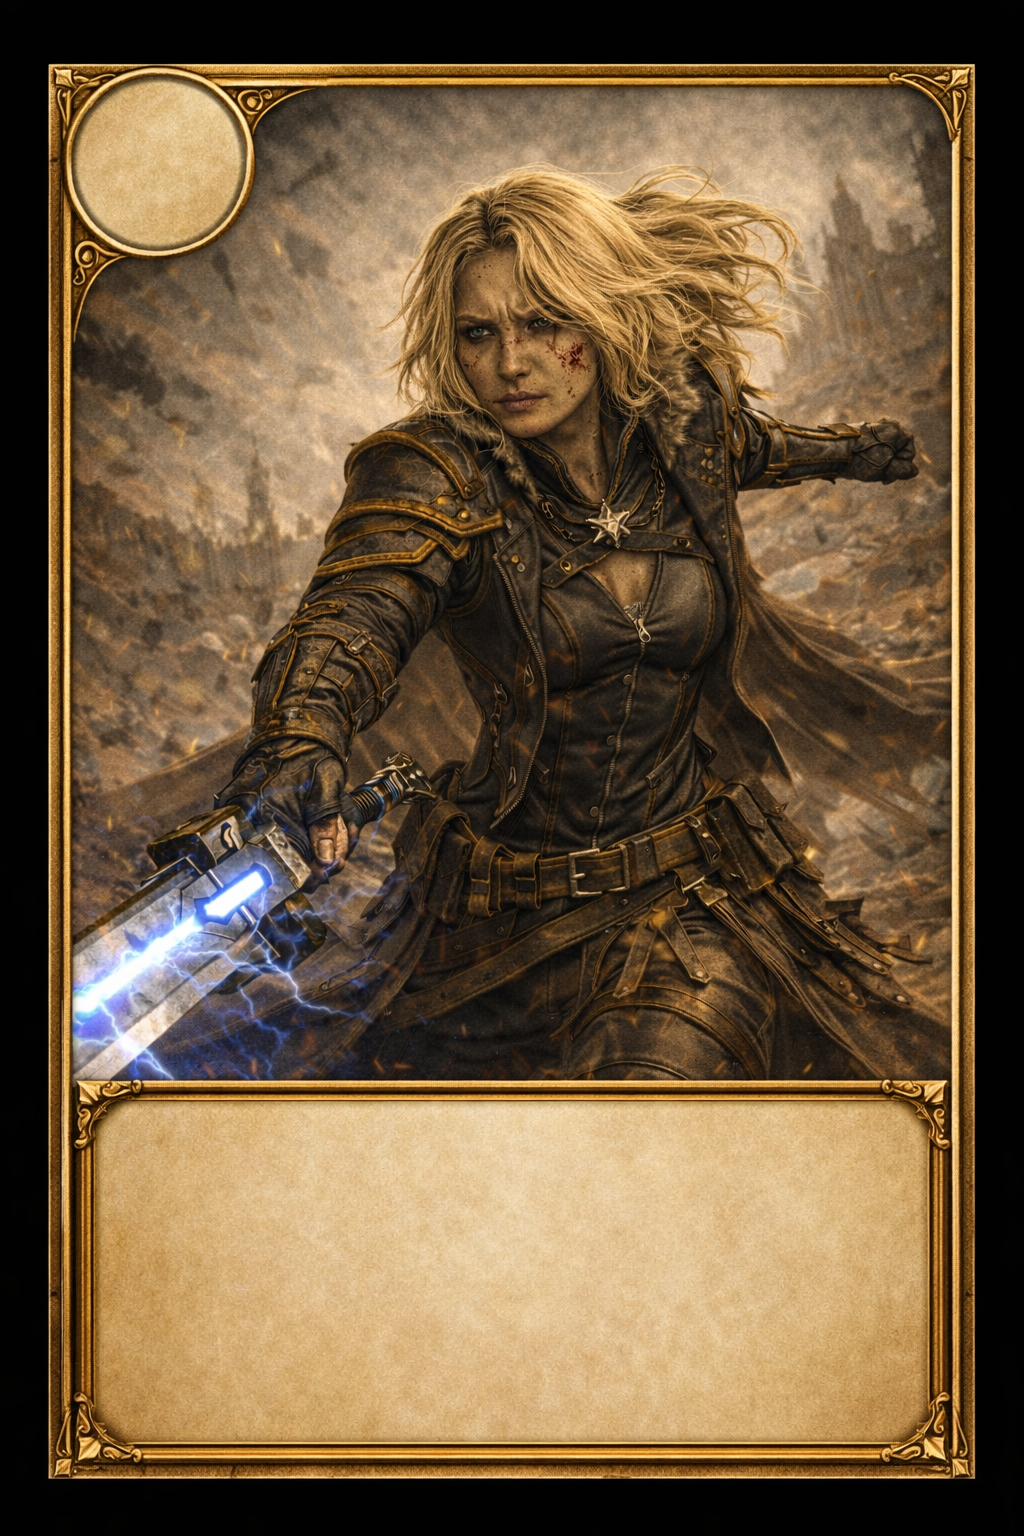
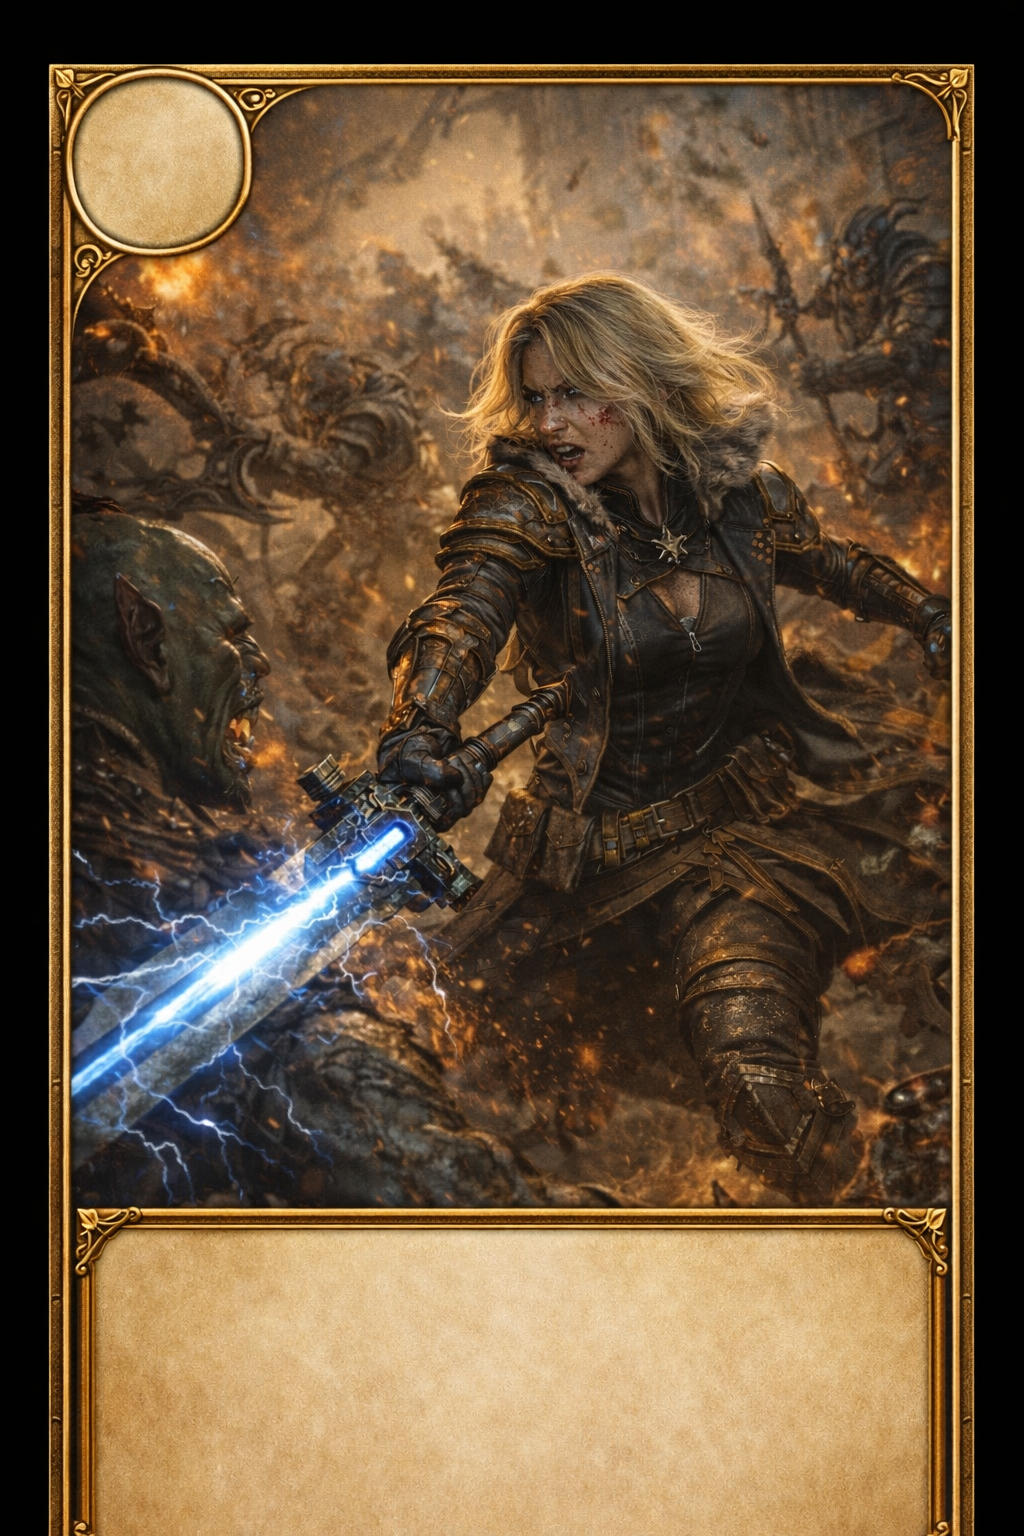
Refina layout del modo batalla de cartas

diff --git a/style.css b/style.css
@@ -1154,52 +1154,35 @@ img{ max-width:100%; height:auto; }
 }
 
 .arcade-battle-board{
-  margin-top: 6px;
+  margin-top: 0;
   flex: 1 1 auto;
   display: flex;
   flex-direction: column;
-  gap: 8px;
+  gap: 10px;
   min-height: 0;
-  overflow: visible;
-}
-
-.arcade-battle-top{
-  display: grid;
-  grid-template-columns: minmax(260px, 320px) minmax(0, 1fr);
-  gap: 12px;
-  align-items: start;
-  min-height: 0;
-  flex: 1 1 auto;
+  justify-content: center;
 }
 
 .arcade-battle-player-panel{
+  display: grid;
+  grid-template-columns: minmax(180px, 1fr) minmax(180px, 1fr) auto auto;
+  gap: 10px;
+  align-items: center;
+  border: none;
+  background: rgba(0,0,0,.28);
   border-radius: 14px;
-  border: 1px solid rgba(255,255,255,.14);
-  background: rgba(5,10,21,.38);
-  padding: 12px;
-}
-
-.arcade-battle-panel-title{
-  font-weight: 900;
-  margin-bottom: 8px;
-}
-
-.arcade-battle-stat{
-  display: flex;
-  justify-content: space-between;
-  gap: 8px;
-  font-size: 13px;
-  font-weight: 700;
+  padding: 10px 12px;
+  backdrop-filter: blur(4px);
 }
 
 .arcade-battle-bar{
   width: 100%;
-  height: 12px;
+  height: 10px;
   border-radius: 999px;
   overflow: hidden;
   background: rgba(255,255,255,.08);
   border: 1px solid rgba(255,255,255,.08);
-  margin: 5px 0 9px;
+  margin: 0;
 }
 
 .arcade-battle-bar-fill{
@@ -1216,39 +1199,51 @@ img{ max-width:100%; height:auto; }
   background: linear-gradient(90deg, #65d7ff, #3aa8ff);
 }
 
-.arcade-battle-cost-line,
-.arcade-battle-deck-line{
+.arcade-battle-meter{
+  display: grid;
+  gap: 5px;
+  min-width: 0;
+}
+
+.arcade-battle-meter-label{
   display: flex;
-  flex-wrap: wrap;
-  gap: 8px 12px;
+  justify-content: space-between;
+  gap: 8px;
   align-items: center;
-}
-
-.arcade-battle-cost-line{
-  margin-top: 4px;
-  font-size: 13px;
-}
-
-.arcade-battle-turn{
-  margin-left: auto;
-  font-weight: 900;
-  color: #ffe38a;
-}
-
-.arcade-battle-deck-line{
-  margin-top: 8px;
   font-size: 12px;
-  color: var(--muted);
+  font-weight: 800;
+}
+
+.arcade-battle-cost-inline{
+  display: inline-flex;
+  align-items: center;
+  gap: 8px;
+  padding: 8px 12px;
+  border-radius: 12px;
+  background: rgba(255,255,255,.08);
+  border: 1px solid rgba(255,255,255,.14);
+  font-size: 13px;
+  font-weight: 800;
+  white-space: nowrap;
+}
+
+.arcade-battle-actions{
+  display: flex;
+  align-items: center;
+  gap: 8px;
+  justify-content: flex-end;
+  flex-wrap: wrap;
 }
 
 .arcade-battle-enemies{
-  min-height: 50vh;
+  flex: 1 1 auto;
+  min-height: 0;
   display: flex;
   align-items: center;
   justify-content: center;
   align-content: center;
-  gap: clamp(14px, 2vw, 34px);
-  padding: 0 12px;
+  gap: clamp(18px, 2.2vw, 40px);
+  padding: 0 8px;
   background: transparent;
   border: none;
   border-radius: 0;
@@ -1266,7 +1261,7 @@ img{ max-width:100%; height:auto; }
   justify-content: center;
   cursor: pointer;
   transition: transform .12s ease, box-shadow .12s ease, opacity .12s ease;
-  width: min(210px, 29%);
+  width: min(260px, 30%);
 }
 
 .arcade-battle-enemy:hover{
@@ -1292,14 +1287,14 @@ img{ max-width:100%; height:auto; }
 }
 
 .arcade-battle-enemy-art{
-  width: min(220px, 100%);
+  width: min(260px, 100%);
   aspect-ratio: 1 / 1;
   object-fit: contain;
   filter: drop-shadow(0 14px 22px rgba(0,0,0,.4));
 }
 
 .arcade-battle-enemy-stats{
-  width: min(220px, 100%);
+  width: min(240px, 100%);
   padding: 2px 4px;
 }
 
@@ -1314,25 +1309,23 @@ img{ max-width:100%; height:auto; }
 .arcade-battle-hand-wrap{
   border: none;
   background: transparent;
-  padding: 4px 2px 0;
+  padding: 0 2px;
   overflow: visible;
 }
 
 .arcade-battle-hand-title{
-  font-size: 12px;
-  font-weight: 800;
-  color: rgba(233,238,252,.9);
-  margin-bottom: 8px;
-  text-align: left;
-  text-shadow: 0 2px 8px rgba(0,0,0,.35);
+  display: none;
 }
 
 .arcade-battle-hand{
-  display: grid;
-  grid-template-columns: repeat(5, minmax(0, 1fr));
-  gap: 10px;
+  display: flex;
+  align-items: flex-end;
+  justify-content: center;
+  gap: 8px;
+  flex-wrap: wrap;
   align-items: end;
   overflow: visible;
+  min-height: 96px;
 }
 
 .arcade-battle-hand-card{
@@ -1348,6 +1341,7 @@ img{ max-width:100%; height:auto; }
   position: relative;
   overflow: visible;
   z-index: 1;
+  width: clamp(58px, 5.6vw, 82px);
 }
 
 .arcade-battle-hand-card:hover{
@@ -1359,9 +1353,14 @@ img{ max-width:100%; height:auto; }
 }
 
 .arcade-battle-hand-card.selected{
-  transform: translateY(-30px) scale(1.5);
-  z-index: 20;
+  position: fixed;
+  left: 50%;
+  top: 50%;
+  width: min(260px, 42vw);
+  transform: translate(-50%, -50%);
+  z-index: 2000;
   filter: drop-shadow(0 18px 28px rgba(0,0,0,.45)) drop-shadow(0 0 14px rgba(126,240,255,.25));
+  box-shadow: 0 0 0 100vmax rgba(4,8,16,.42);
 }
 
 .arcade-battle-hand-card.disabled{
@@ -1380,19 +1379,14 @@ img{ max-width:100%; height:auto; }
 }
 
 .arcade-battle-card-name{
-  font-size: 12px;
+  font-size: 10px;
   font-weight: 900;
   text-align: center;
   text-shadow: 0 2px 8px rgba(0,0,0,.45);
 }
 
 .arcade-battle-card-meta{
-  display: flex;
-  justify-content: space-between;
-  gap: 6px;
-  font-size: 11px;
-  color: rgba(233,238,252,.86);
-  text-shadow: 0 2px 8px rgba(0,0,0,.45);
+  display: none;
 }
 
 /* ---------- GAME LAYOUT ---------- */
@@ -2432,24 +2426,19 @@ img{ max-width:100%; height:auto; }
 
   .carousel-center{ min-height: 300px; }
 
-  .arcade-battle-top{
-    grid-template-columns: 1fr;
-    gap: 8px;
-  }
   .arcade-battle-enemies{
-    min-height: 40vh;
+    min-height: 0;
     flex-wrap: wrap;
     gap: 10px;
   }
   .arcade-battle-enemy{ width: min(170px, 48%); }
-  .arcade-battle-hand{
-    grid-template-columns: repeat(2, minmax(0, 1fr));
+  .arcade-battle-player-panel{
+    grid-template-columns: 1fr;
+    gap: 8px;
+    align-items: stretch;
   }
   .arcade-battle-hand-card.selected{
-    transform: translateY(-10px) scale(1.12);
-  }
-  .arcade-battle-turn{
-    margin-left: 0;
+    width: min(220px, 62vw);
   }
 
   .stage{ padding-bottom: 10px; }

diff --git a/index.html b/index.html
@@ -158,43 +158,33 @@ Sin existencias. Renovaremos la tienda pronto
 <!-- MODO BATALLA (cartas) -->
 <section class="start hidden" id="arcadeBattleScreen">
 <div class="start-card arcade-battle-card">
-<div class="start-title">Modo Batalla</div>
-<div class="start-subtitle" id="arcadeBattleStatus">Arrastra una carta a un enemigo para hacer daño.</div>
 <div class="arcade-battle-board" id="arcadeBattleBoard">
-<div class="arcade-battle-top">
+<div class="arcade-battle-enemies" id="arcadeBattleEnemies"></div>
+<div class="arcade-battle-hand-wrap">
+<div class="arcade-battle-hand" id="arcadeBattleHand"></div>
+</div>
 <div class="arcade-battle-player-panel">
-<div class="arcade-battle-panel-title">Tu equipo</div>
-<div class="arcade-battle-stat">
-<span>Vida</span>
-<span id="arcadeBattlePlayerHpText">20/20</span>
-</div>
+<div class="arcade-battle-meter">
+<div class="arcade-battle-meter-label"><span>Vida</span><span id="arcadeBattlePlayerHpText">20/20</span></div>
 <div class="arcade-battle-bar"><div class="arcade-battle-bar-fill hp" id="arcadeBattlePlayerHpFill"></div></div>
-<div class="arcade-battle-stat">
-<span>Escudo</span>
-<span id="arcadeBattlePlayerShieldText">0/20</span>
 </div>
+<div class="arcade-battle-meter">
+<div class="arcade-battle-meter-label"><span>Escudo</span><span id="arcadeBattlePlayerShieldText">0/20</span></div>
 <div class="arcade-battle-bar"><div class="arcade-battle-bar-fill shield" id="arcadeBattlePlayerShieldFill"></div></div>
-<div class="arcade-battle-cost-line">
+</div>
+<div class="arcade-battle-cost-inline">
 <span>Coste</span>
 <b id="arcadeBattleCostText">3/3</b>
-<span class="arcade-battle-turn" id="arcadeBattleTurnText">Turno 1</span>
+<span class="hidden" id="arcadeBattleTurnText">Turno 1</span>
+<span class="hidden">Mazo: <b id="arcadeBattleDeckCount">0</b></span>
+<span class="hidden">Reserva: <b id="arcadeBattleDiscardCount">0</b></span>
+<span class="hidden">Mano: <b id="arcadeBattleHandCount">0</b></span>
 </div>
-<div class="arcade-battle-deck-line">
-<span>Mazo: <b id="arcadeBattleDeckCount">0</b></span>
-<span>Reserva: <b id="arcadeBattleDiscardCount">0</b></span>
-<span>Mano: <b id="arcadeBattleHandCount">0</b></span>
-</div>
-<div class="modal-actions" style="margin-top:10px;">
+<div class="arcade-battle-actions">
 <button class="btn btn-ghost" id="arcadeBattleEndTurnBtn" type="button">Pasar turno</button>
 <button class="btn btn-ghost" id="arcadeBattleRestartBtn" type="button">Reiniciar</button>
 <button class="btn btn-ghost" id="arcadeBattleBackBtn" type="button">Volver al menú</button>
 </div>
-</div>
-<div class="arcade-battle-enemies" id="arcadeBattleEnemies"></div>
-</div>
-<div class="arcade-battle-hand-wrap">
-<div class="arcade-battle-hand-title">Cartas (arrastrables)</div>
-<div class="arcade-battle-hand" id="arcadeBattleHand"></div>
 </div>
 </div>
 </div>

diff --git a/script.js b/script.js
@@ -4046,7 +4046,6 @@ document.addEventListener("DOMContentLoaded", () => {
           >
             <img class="arcade-battle-card-img" src="${def.img}" alt="${def.name}" />
             <div class="arcade-battle-card-name">${def.name}</div>
-            <div class="arcade-battle-card-meta"><span>Coste ${def.cost}</span><span>Daño ${def.damage}</span></div>
           </button>
         `;
       }).join("");
